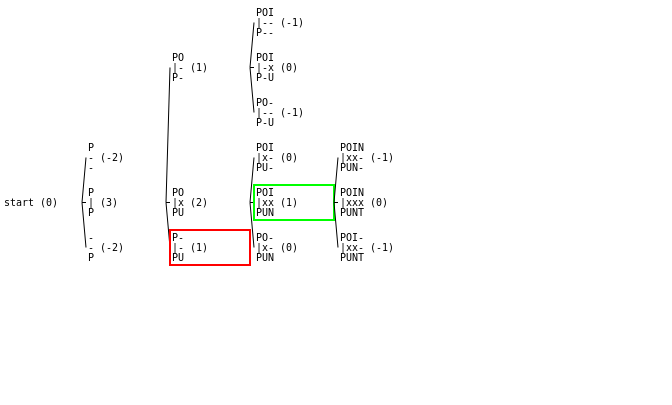
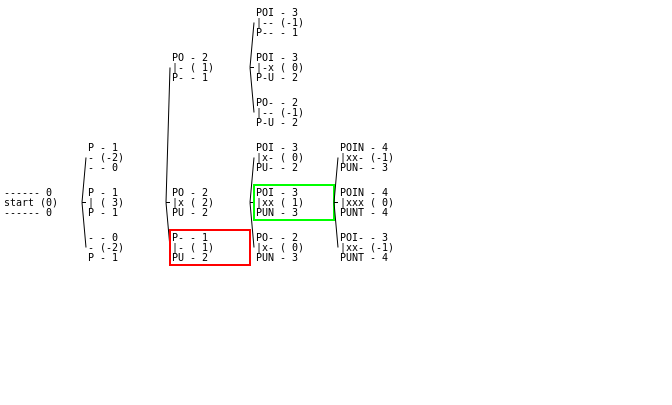
X

diff --git a/notebooks/sequence_alignment/alignment_tree/dalt/alignment.py b/notebooks/sequence_alignment/alignment_tree/dalt/alignment.py
@@ -56,14 +56,12 @@ class AlignmentNode(Node):
 
     def _apply_ops(self):
         # "start" is the name by default for the empty alignment
-        mask, mseq1, mseq2 = "start", "", ""
+        mask, mseq1, mseq2 = "", "", ""
         
         self._score, i, j = 0, 0, 0
 
         if self._ops:
             # compute mask & score
-            mask = ""
-
             for op in self._ops:
                 match op:
                     case Operation.MATCH if self._seq1[i] == self._seq2[j]:
@@ -98,7 +96,10 @@ class AlignmentNode(Node):
             - The masked representation of the operations + the score
             - The second sequence with the operations applied.
         """
-        self.text = f"{mseq1}\n{mask} ({self.score})\n{mseq2}"
+        if mask:
+            self.text = f"{mseq1} - {i}\n{mask} ({self.score:2d})\n{mseq2} - {j}"
+        else:
+            self.text = f"------ 0\nstart ({self.score:2d})\n------ 0"
 
     def _get_score(self):
         return self._score

diff --git a/_posts/2023-12-01-sequence_alignments_3.md b/_posts/2023-12-01-sequence_alignments_3.md
@@ -7,7 +7,7 @@ greedy1:
     slides:
         - slide:
             image: /images/sequence_alignments/greedy1/step_00.png
-            caption: The algorithm starts with an "empty" alignment, which happens to be the trivially best so far.
+            caption: The algorithm starts with an empty alignment, which happens to be the trivially best so far.
         - slide:
             image: /images/sequence_alignments/greedy1/step_01.png
             caption: It expands the "empty" alignment (GREEN box), by applying the three possible operations<br/>
@@ -92,28 +92,6 @@ greedy2:
 
 <script src="https://cdn.mathjax.org/mathjax/latest/MathJax.js?config=TeX-AMS-MML_HTMLorMML" type="text/javascript"></script>
 
-<style>
-    div#DNA {
-        font-family:monospace;
-        font-size: 20px;
-    }
-    .seqname {
-        color: black;
-    }
-    .A {
-        color: red;
-    }
-    .C {
-        color: green;
-    }
-    .G {
-        color: orange;
-    }
-    .T { 
-        color: blue;
-    }
-</style>
-
 _In the [previous post](/sequence_alignments_2) I formally defined sequence alignments and described a way to compute a score for how "good" an alignment is. This score allows us to compare alignments between two sequences against each other which is key to help us find the best alignment of all, the optimal one. In this post I will start exploring algorithms to automatically find this optimal alignment between two sequences._
 
 > Check also the [companion notebook](https://github.com/jaclx5/jaclx5.github.io/tree/master/notebooks/sequence_alignment) (more info at the [end of the post](#code)). 
@@ -128,25 +106,53 @@ If you have been following the previous posts of this series you have learned qu
 
 Now, our next challenge will be to __design an algorithm that finds the optimal alignment between any two given sequences__.
 
+## A Little Bit of Notation 
+
+Before moving on, let's add some notation to help us describe the algorithms to be developed.
+
+An alignment algorithm is a set of mechanical rules applied, sequentially, step by step. I will illustrate the algorithms in this post with ternary trees like the one bellow:
+
+<div align="center">
+    <img src="/images/sequence_alignments/notation_1.png" height="250"/>
+</div>
+
+Each individual tree is snapshot of a given step of the algorithm. Each node in the tree corresponds to a partial alignment being explored. The tree depicts all the partial alignments explored up to that step.
+
+Each node in the tree contains the following extra information:
+
+<div align="center">
+    <img src="/images/sequence_alignments/notation_2.png" height="250"/>
+</div>
+
+Note that the following two nodes correspond to two distinct partial alignments, with distinct sequences of operations:
+
+<div align="center">
+    <img src="/images/sequence_alignments/notation_3.png" height="100"/>
+</div>
+
+Both, however, consumed $$3$$ elements of sequence $$A$$ and $$2$$ elements of sequence $$A$$. Hence, we can say that both alignments belong to the $$S_{3, 2}$$ set.
+
+Generalizing, the set $$S_{i, j}$$ contains all alignments that consume $$i$$ elements from sequence $$A$$ and $$j$$ elements from sequence $$B$$.
+
+Finally, certain special nodes will be shown with particular colors. the __<span style="color:#ff0000;">red</span>__ node represents the best "non expanded" alignment observed so far, the __<span style="color:#00ff00;">green</span>__ node represents the expanded node that originated the current state, and the __<span style="color:#0000ff;">blue</span>__ one represents the solution whenever we find it. Note that the a solution requires that all elements of both sequences have been "consumed", thus, the partial alignments are only intermediate steps until a solution is reached.
+
+Now, the algorithms.
 
 ## Greedy Approach - A False Start
 
-Our first attempt will be a straightforward, although _naïve_, way to search for the optimal alignment. This algorithm systematically explores all possible alignment operations in each step of the way, "greedily" choosing the next search direction according to the best score found so far.
+Our first attempt to build an alignment algorithm will be a straightforward, although _naïve_, way to search for the optimal alignment. This algorithm systematically explores all possible alignment operations in each step of the way, "greedily" choosing the next search direction according to the best score found so far.
 
-The sequence of images bellow illustrates this __greedy__ algorithm applied to our [already familiar sequences](/sequence_alignments_2#external1): <code class="python">POINTER</code> and <code class="python">PUNTER</code>, respectively our sequences $$A$$ and $$B$$.
-
-In this visualization, each image is a step of the algorithm and the boxes (or nodes) represent partial alignments observed at that step. The __<span style="color:#ff0000;">red</span>__ box represents the best "non expanded" alignment observed so far, the __<span style="color:#00ff00;">green</span>__ box represents the expanded node that originated the current state, and the __<span style="color:#0000ff;">blue</span>__ one will represent the solution whenever we find it. Note that the a solution requires that all elements of both sequences have been "consumed", thus, the partial alignments are only intermediate steps until a solution is reached.
+The images bellow illustrate this __greedy__ algorithm applied to our [already familiar sequences](/sequence_alignments_2#external1): <code class="python">POINTER</code> and <code class="python">PUNTER</code>, respectively our sequences $$A$$ and $$B$$.
 
 Click on the left and right arrows, or in the bottom circles to navigate the steps of the algorithm.
 
-
 {% include slideshow.html slideshow=page.greedy1 %}
 
-In the first step, the algorithm starts with an _empty_ alignment with an score of 0 (zero), and "expands" it by applying the three possible operations:
+In the first step, the algorithm starts with an _empty_ alignment ($$\text{empty} \in S_{0,0}$$) with an score of 0 (zero), and "expands" it by applying the three possible operations:
 
-- an __INSERT__ in $$A_1$$, obtaining the partial alignment (P/-) with a score of -2.
-- a __MATCH__ between $$A_1$$ and $$B_1$$, obtaining (P/P) with a score of 3.
-- a __DELETION__ of $$A_i$$, obtaining (-/P) with a score of -2.
+- an __INSERT__ in $$A_1$$, obtaining the partial alignment $$\text{(P/-)} \in S_{1,0}$$ with a score of -2.
+- a __MATCH__ between $$A_1$$ and $$B_1$$, obtaining $$\text{(P/P)} \in S_{1,1}$$ with a score of 3.
+- a __DELETION__ of $$A_i$$, obtaining $$\text{(-/P)} \in S_{0,1}$$ with a score of -2.
 
 Next, it chooses the best node found so far (thus the __greedy__ in the algorithm's name) and repeats the same expansion process. The algorithm keeps "expanding" the best node, until it "exhausts" both sequences.
 
@@ -160,7 +166,7 @@ Take, for example, this other pair of sequences, <code class="python">ABC</code>
 
 {% include slideshow.html slideshow=page.greedy2 %}
 
-As we can see in this example, the greedyness of the algorithm, and the fact that it stops as soon as it founds a possible solution, leads to the following sub-optimal alignment as a solution:
+As we can see in this example, the greediness of the algorithm, and the fact that it stops as soon as it founds a possible solution, leads to the following sub-optimal alignment ($$(\text{ABC---/ABXABC}) \in S_{3,6}$$) as a solution:
 
 {% highlight markdown %}
     ABC---
